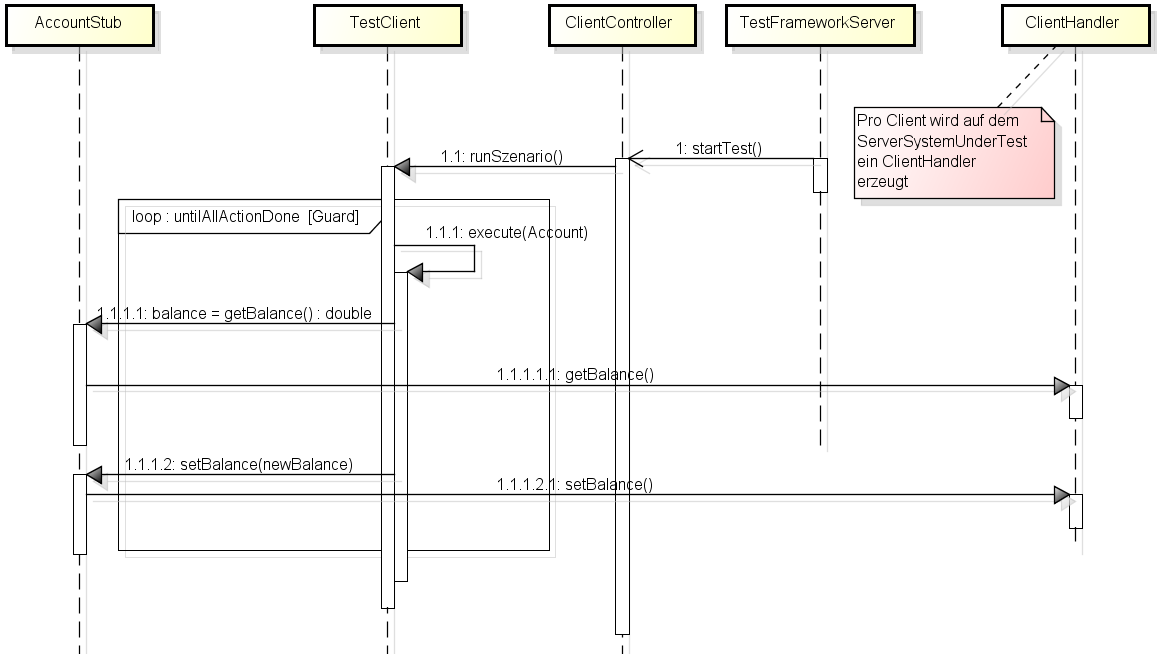
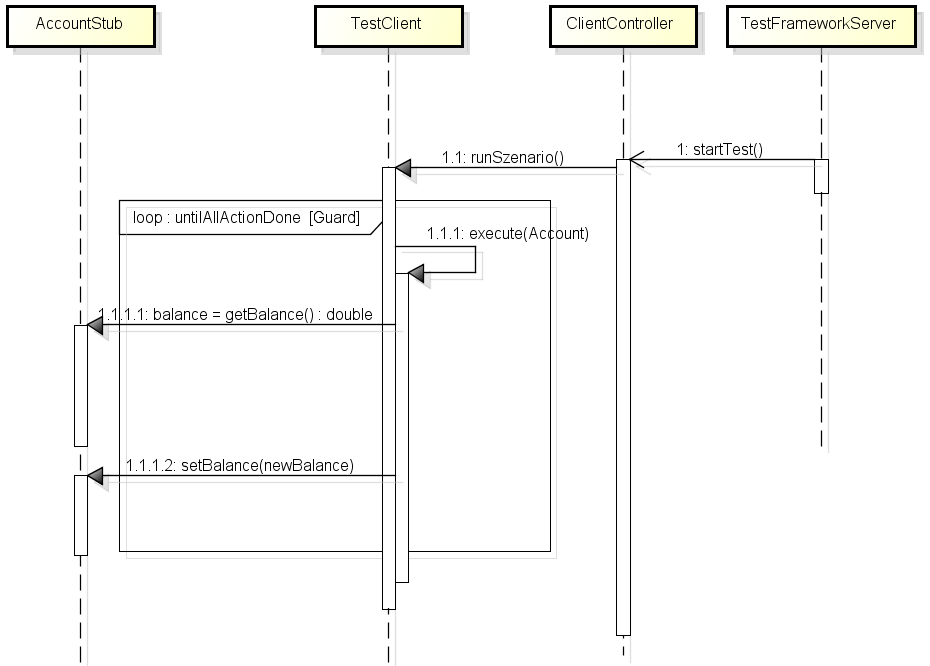
changed some images and placed it in a other section

diff --git a/doc/project-documentation/testFramework.tex b/doc/project-documentation/testFramework.tex
@@ -333,19 +333,18 @@ Dieses Kapi\-tel beschreibt die Aufgaben des Testframework Client sowie die Umse
 \item Abarbeitung des durch den Framework Server zur Verfügung gestellten Szenarios auf dem zu testenden System sowie die Zeitmessungen der einzelnen Aktionen
 \end{itemize}
 
+\begin{figure}[H]
+\begin{center}
+\includegraphics[scale=0.5]{image_testFramework/Server_Client_Communication.png}
+\end{center}
+\caption{Server Client Communication}
+\end{figure}
+
 Die Umsetzung des Testframeworks wurde über das bewährte Client / Server Konzept realisiert, was zu einer schlanke Lösung auf Seiten des Clients führt. Der FrameworkClient und das ClientSystemUnderTest lassen sich dank die\-sem Konzept komplett vom Framework Server aus konfigurieren und steuern. Ein weiterer Vorteil dieses Designs, liegt darin das sich neue Anforderungen jederzeit leicht umsetzen lassen.
 
 
 \subsection{ClientController}
 \label{sec:clientController}
-
-
-\begin{figure}
-\begin{center}
-\includegraphics[scale=0.2]{image_testFramework/TestFWServerClientSeq.png}
-\end{center}
-\caption{Server Client Communication}
-\end{figure}
  
 Beim Start der client.jar Datei kann das Startup-Skript zwei Argumente mitgeben:
 \begin{enumerate}
